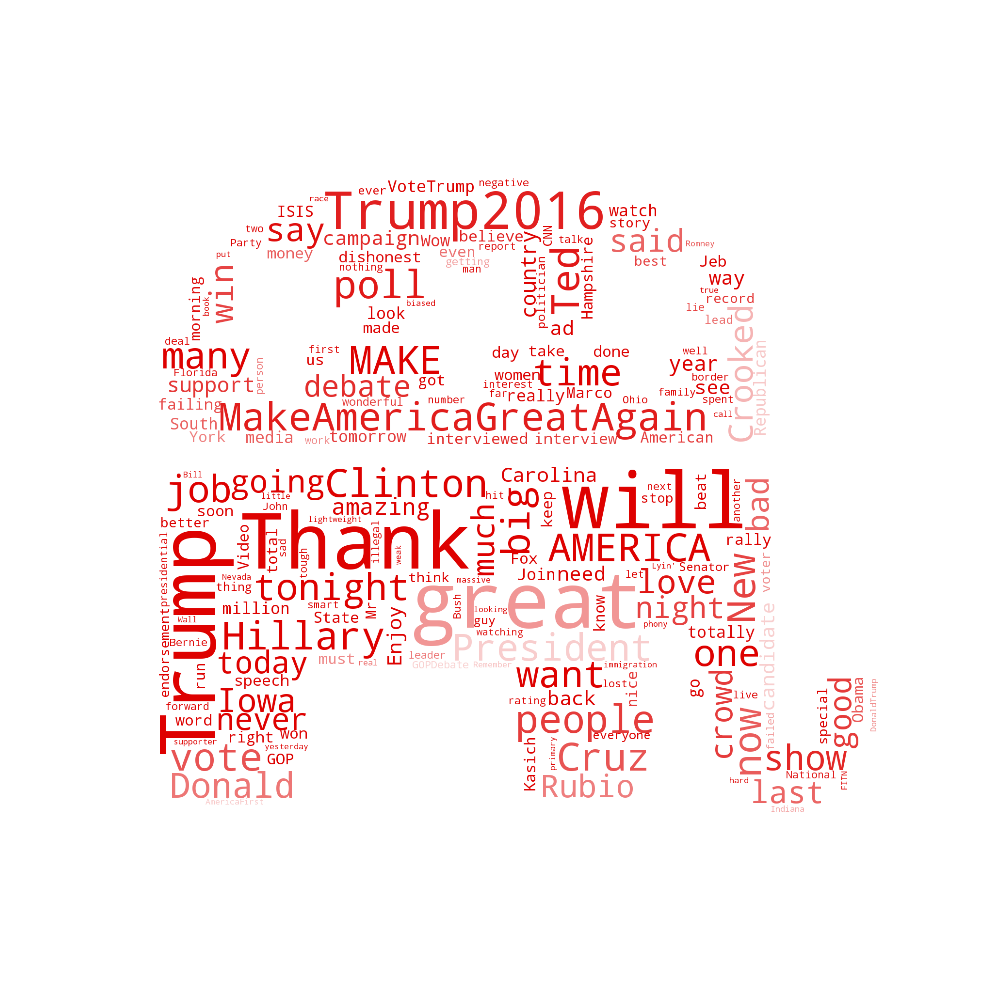
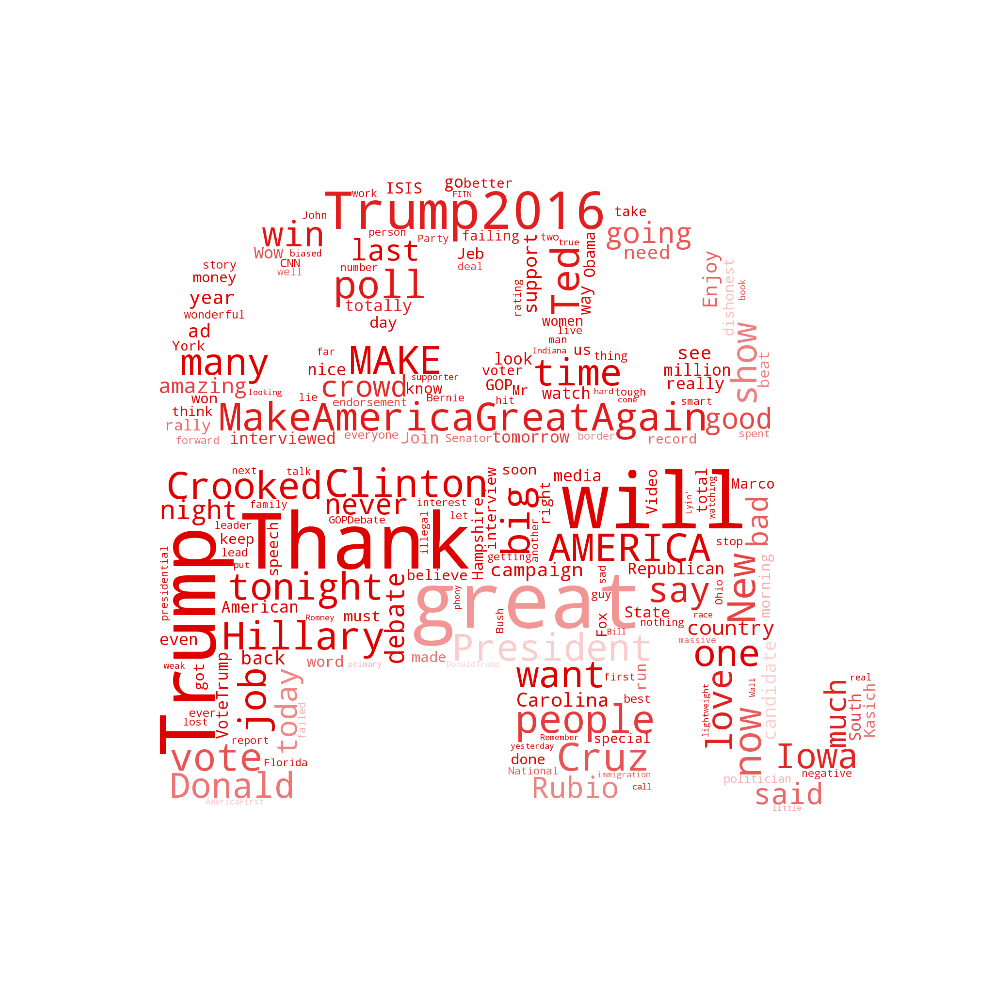
updates to use backups as well as minor changes

Changed region(s): [[0.155, 0.155, 0.899, 0.806], [0.465, 0.62, 0.527, 0.651]]

diff --git a/scripts/pca_examine.py b/scripts/pca_examine.py
@@ -7,19 +7,26 @@ from bokeh.models import HoverTool, ColumnDataSource
 import numpy as np
 
 # Load the tweets
-h = TweetLoader('HillaryClinton', track_location=False)
+# h = TweetLoader('HillaryClinton')
+# t = TweetLoader('realDonaldTrump')
+h = TweetLoader('', path='data/backup/', filename='hillary_2016-07-06.json')
+t = TweetLoader('', path='data/backup/', filename='trump_2016-07-06.json')
 h.load()
-t = TweetLoader('realDonaldTrump', track_location=False)
 t.load()
 
 # Join them together
 full_tweets = pd.concat([h.tweets, t.tweets])
 
-# Run through part of the model to get the PCA results and loading factors
-max_words = 200
-mod = Analyzer(full_tweets['text'], max_words=max_words, load_pca=True, load_svm=True)
+# Assign label (second array) for Hillary(0)/Trump(1) tweets
+label_array = np.array([0]*len(h.tweets) + [1]*len(t.tweets))
 
-mod.load_words()
+# Run through part of the model to get the PCA results and loading factors
+# This is not the full model, just a part of it for illustration purposes
+max_words = 50
+mod = Analyzer(full_tweets['text'], labels=label_array, max_words=max_words, load_pca=False)
+
+# mod.load_words()
+mod.get_words()
 mod.create_dtm()
 mod.run_pca()
 
@@ -71,7 +78,7 @@ p.plot_height = 1000
 p.grid.grid_line_color = None
 p.axis.axis_line_color = None
 p.axis.major_tick_line_color = None
-p.axis.major_label_text_font_size = "5pt"
+p.axis.major_label_text_font_size = "8pt"
 p.axis.major_label_standoff = 0
 p.xaxis.major_label_orientation = np.pi / 3
 
@@ -86,3 +93,8 @@ p.select_one(HoverTool).tooltips = [
 output_file("figures/pca_factors.html", title="PCA Loading Factors")
 
 show(p)
+
+# Examine via biplot
+mod.make_biplot(0, 3, max_arrow=0.2, save='figures/biplot_0_3.png')
+mod.make_biplot(4, 15, max_arrow=0.3, save='figures/biplot_4_15.png')
+

diff --git a/analysis.py b/analysis.py
@@ -208,7 +208,7 @@ class Analyzer:
 
         return cm
 
-    def make_biplot(self, xval=0, yval=1, max_arrow=0.2):
+    def make_biplot(self, xval=0, yval=1, max_arrow=0.2, save=False, alpha=0.6):
         """
         Create a biplot of the PCA components
 
@@ -230,12 +230,12 @@ class Analyzer:
 
         if self.labels is not None:
             plt.plot(self.pcscores.iloc[:, xval][self.labels == 0] * scalex, self.pcscores.iloc[:, yval][self.labels == 0] * scaley,
-                     'bo', alpha=0.6, label='Hillary Clinton')
+                     'bo', alpha=alpha, label='Hillary Clinton')
             plt.plot(self.pcscores.iloc[:, xval][self.labels == 1] * scalex, self.pcscores.iloc[:, yval][self.labels == 1] * scaley,
-                     'ro', alpha=0.6, label='Donald Trump')
+                     'ro', alpha=alpha, label='Donald Trump')
         else:
             plt.plot(self.pcscores.iloc[:, xval] * scalex, self.pcscores.iloc[:, yval] * scaley,
-                     'bo', alpha=0.6)
+                     'bo', alpha=alpha)
 
         for i in range(n):
             # Only plot the longer ones
@@ -253,6 +253,7 @@ class Analyzer:
         plt.ylabel('PC{}'.format(yval+1))
         if self.labels is not None: plt.legend(loc='best', numpoints=1)
         plt.grid()
+        if save: plt.savefig(save)
         plt.show()
 
 

diff --git a/scripts/sentiment_chart.py b/scripts/sentiment_chart.py
@@ -7,11 +7,13 @@ import numpy as np
 import matplotlib.pyplot as plt
 
 # Load most recent tweets from Hillary Clinton and Donald Trump
-h = TweetLoader('HillaryClinton')
-t = TweetLoader('realDonaldTrump')
-
+# h = TweetLoader('HillaryClinton')
+# t = TweetLoader('realDonaldTrump')
+h = TweetLoader('', path='data/backup/', filename='hillary_2016-07-06.json')
+t = TweetLoader('', path='data/backup/', filename='trump_2016-07-06.json')
 h.load()
 t.load()
+
 
 # Assign label (second array) for Hillary(0)/Trump(1) tweets
 label_array = np.array([0]*len(h.tweets) + [1]*len(t.tweets))
@@ -32,6 +34,11 @@ print df.sort_values(by='positive', ascending=False)[df['label'] == 1]['text'].v
 
 print df.sort_values(by='negative', ascending=False)[df['label'] == 0]['text'].values[0]
 print df.sort_values(by='negative', ascending=False)[df['label'] == 1]['text'].values[0]
+
+print df.sort_values(by='fear', ascending=False)[df['label'] == 0]['text'].values[0]
+# print df.sort_values(by='fear', ascending=False)[df['label'] == 1]['text'].values[0]
+# print df.sort_values(by='disgust', ascending=False)[df['label'] == 0]['text'].values[0]
+print df.sort_values(by='disgust', ascending=False)[df['label'] == 1]['text'].values[0]
 
 # Tally up the results
 results = df.groupby(by='label', sort=False).sum()

diff --git a/scripts/word_cloud.py b/scripts/word_cloud.py
@@ -39,9 +39,11 @@ def make_cloud(text, image, size=10, filename='figures/cloud.png', max_words=200
     plt.savefig(filename)
 
 # Load tweets
-h = TweetLoader('HillaryClinton', track_location=False)
+# h = TweetLoader('HillaryClinton')
+# t = TweetLoader('realDonaldTrump')
+h = TweetLoader('', path='data/backup/', filename='hillary_2016-07-06.json')
+t = TweetLoader('', path='data/backup/', filename='trump_2016-07-06.json')
 h.load()
-t = TweetLoader('realDonaldTrump', track_location=False)
 t.load()
 
 # Hillary cloud
